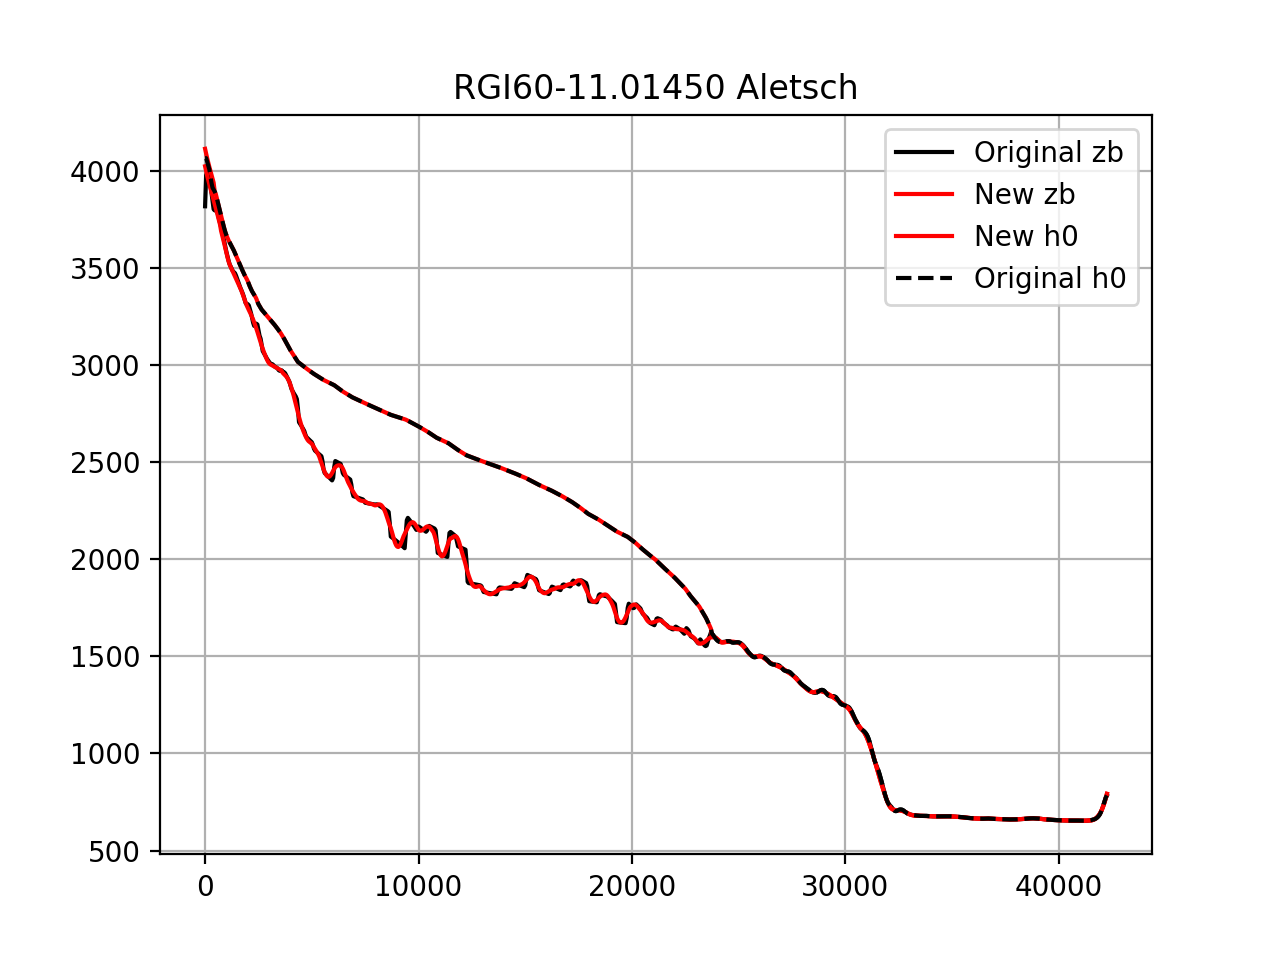
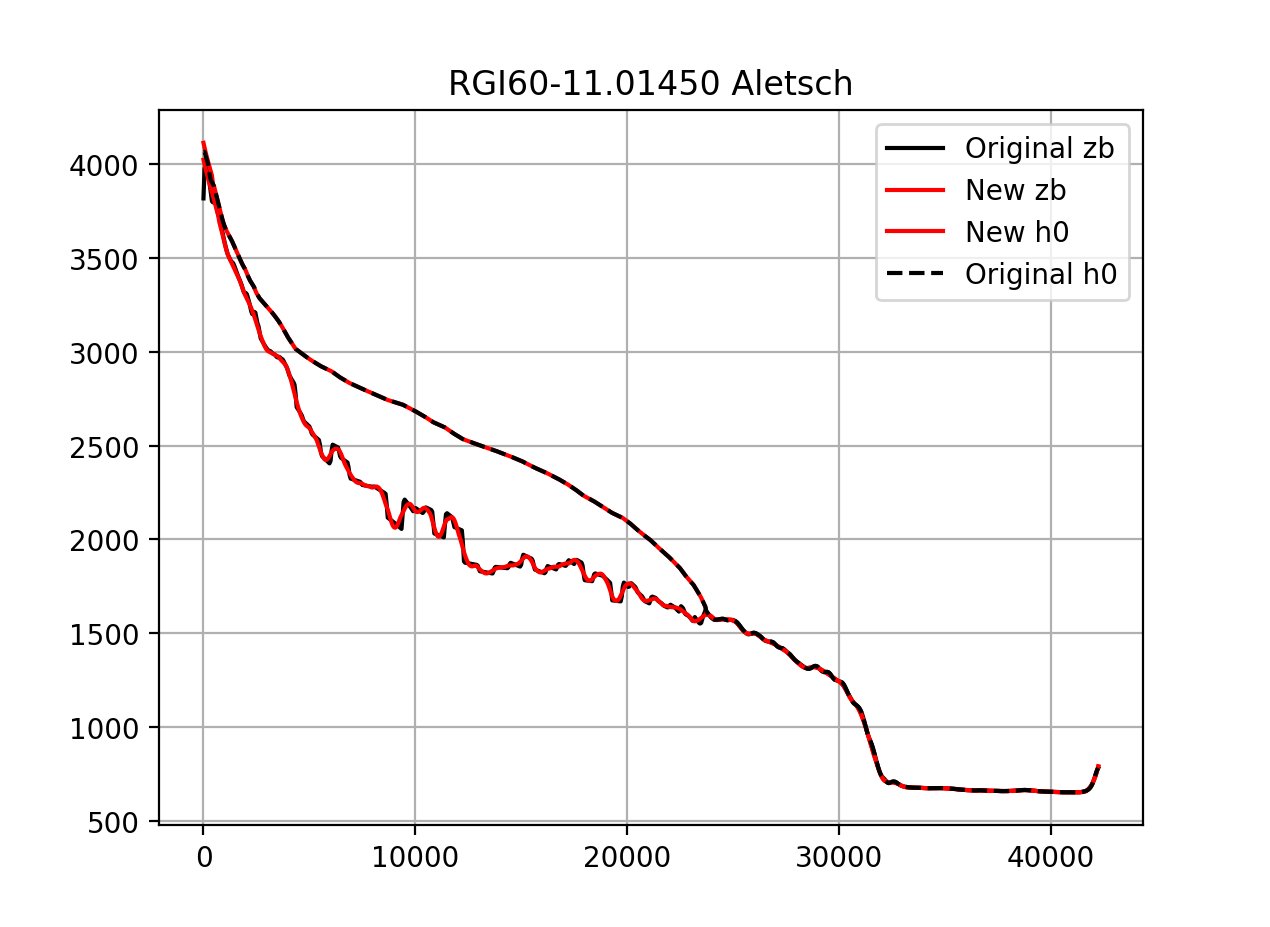
Updated scripts to pull geometry from OGGM

diff --git a/src/features/get_geom.py b/src/features/get_geom.py
@@ -8,7 +8,7 @@ Author: drotto
 Created: 9/28/2022 @ 8:53 AM
 Project: oggm
 """
-
+import shutil
 import os
 import pickle
 import gzip
@@ -71,6 +71,14 @@ oggm.cfg.PARAMS['use_multiprocessing'] = False
 oggm.cfg.PARAMS['check_calib_params'] = False
 oggm.cfg.PARAMS['use_rgi_area'] = True
 oggm.cfg.PARAMS['use_tstar_calibration'] = True
+oggm.cfg.PARAMS['flowline_dx'] = 1.0
+oggm.cfg.PARAMS['elevation_band_flowline_binsize'] = 30  # meters
+oggm.cfg.PARAMS['grid_dx_method'] = 'fixed'
+oggm.cfg.PARAMS['fixed_dx'] = 50
+oggm.cfg.PARAMS['border'] = 240
+oggm.cfg.PARAMS['use_multiple_flowlines'] = False
+oggm.cfg.PARAMS['downstream_line_shape'] = 'parabola'
+
 #oggm.cfg.PATHS['working_dir'] = utils.gettempdir(dirname='OGGM-ebands', reset=True)
 
 # %%
@@ -78,6 +86,8 @@ oggm.cfg.PARAMS['use_tstar_calibration'] = True
 rgi_ids = list({k: v for k, v in cfg['glaciers'].items()}.keys())
 
 # %%
+
+oggm.cfg.PATHS['working_dir'] = Path(r'~/oggm_out/e_bands')
 
 # Where to fetch the pre-processed directories
 # todo: just until 1.6 transition is officially documented then this should be changed 
@@ -87,25 +97,19 @@ base_url = 'https://cluster.klima.uni-bremen.de/data/gdirs/dems_v1/highres/'
 #                                           prepro_base_url=prepro_path,
 #                                           from_prepro_level=1,
 #                                           prepro_rgi_version='62')
-gdirs = workflow.init_glacier_directories(rgi_ids, from_prepro_level=2, prepro_border=240, prepro_base_url=prepro_path, reset=False, force=False)
+gdirs = workflow.init_glacier_directories(rgi_ids, from_prepro_level=2, prepro_border=160, prepro_base_url=prepro_path, reset=False, force=False)
 
-# %%
-
-oggm.cfg.PARAMS['elevation_band_flowline_binsize'] = 10  # meters
+# Shared tasks
 
 workflow.execute_entity_task(tasks.define_glacier_region, gdirs, source=['ALASKA', 'NASADEM'])#, 'ARCTICDEM', 'COPDEM30', 'TANDEM', 'ASTER'])
 workflow.execute_entity_task(tasks.process_dem, gdirs)
+
+# Get the flowline width using elevation band flowlines
 workflow.execute_entity_task(tasks.simple_glacier_masks, gdirs, write_hypsometry=True)
 workflow.execute_entity_task(tasks.elevation_band_flowline, gdirs)
 workflow.execute_entity_task(tasks.fixed_dx_elevation_band_flowline, gdirs)
 workflow.execute_entity_task(tasks.compute_downstream_line, gdirs)
 workflow.execute_entity_task(tasks.compute_downstream_bedshape, gdirs)
-#workflow.execute_entity_task(tasks.catchment_width_correction, gdirs)  # not sure if I should do this or not
-
-#%%
-
-
-
 # %% climate tasks
 
 base_url = r'https://cluster.klima.uni-bremen.de/~oggm/ref_mb_params/oggm_v1.4/RGIV62/CRU/elev_bands/qc3/pcp2.5/'
@@ -117,11 +121,10 @@ list_tasks = [
 ]
 for task in list_tasks:
     workflow.execute_entity_task(task, gdirs)
-
 # %% Inversion tasks
 
+workflow.execute_entity_task(tasks.prepare_for_inversion, gdirs, invert_all_rectangular=True)
 list_tasks = [
-    tasks.prepare_for_inversion,
     tasks.mass_conservation_inversion,
     tasks.filter_inversion_output,
     tasks.gridded_attributes,
@@ -130,67 +133,118 @@ list_tasks = [
 for task in list_tasks:
     workflow.execute_entity_task(task, gdirs)
 
-# %% init model
 
+# %% init model
 workflow.execute_entity_task(tasks.init_present_time_glacier, gdirs)
 
+
 # %%
-
-
 for i, rgiid in enumerate(rgi_ids):
     gdir = gdirs[i]
-    gdir_objs = ['model_flowlines', 'downstream_line']
+    gdir_objs = ['inversion_flowlines', 'inversion_output', 'downstream_line', 'elevation_band_flowline']
     objs = []
     for gdir_obj in gdir_objs:
         fp = gdir.get_filepath(gdir_obj)
-        with gzip.open(fp, "rb") as openfile:
-            while True:
-                try:
-                    obj = pickle.load(openfile)
-                    objs.append(obj)
-                except EOFError:
-                    break
-        # rewrite to other location
-        fp = Path(f'/mnt/c/sandbox/glacier-attribution/data/interim/oggm_flowlines/{rgiid}.{gdir_obj}.pickle')
-        with gzip.open(fp, "wb") as f:
-            # hopefully removes dependencie on oggm/salem
-            objs = flatten(objs)
-            #objs = [obj.__dict__ for obj in objs]
-            pickle.dump(objs, f)
-
-# %%
+        if gdir_obj == 'elevation_band_flowline':
+            shutil.copyfile(fp, Path(f'/mnt/c/sandbox/glacier-attribution/data/interim/oggm_flowlines/e_bands/{rgiid}.{gdir_obj}.csv'))
+        
+        else:
+            with gzip.open(fp, "rb") as openfile:
+                while True:
+                    try:
+                        obj = pickle.load(openfile)
+                        objs.append(obj)
+                    except EOFError:
+                        break
+            # rewrite to other location
+            fp = Path(f'/mnt/c/sandbox/glacier-attribution/data/interim/oggm_flowlines/e_bands/{rgiid}.{gdir_obj}.pickle') 
+            with gzip.open(fp, "wb") as f:
+                # hopefully removes dependencie on oggm/salem
+                objs = flatten(objs)
+                #objs = [obj.__dict__ for obj in objs]
+                pickle.dump(objs, f)
+        
 # 
-# fp = gdir.get_filepath('inversion_flowlines')
-# inv_flowlines = []
-# with gzip.open(fp, "rb") as openfile:
-#     while True:
-#         try:
-#             inv_flowlines.append(pickle.load(openfile))
-#         except EOFError:
-#             break
+# 
+# #%% Get the flowline length/bed profile using geometrical centerlines
+# 
+# oggm.cfg.PATHS['working_dir'] = Path(r'~/oggm_out/centerlines')
+# 
+# # Where to fetch the pre-processed directories
+# # todo: just until 1.6 transition is officially documented then this should be changed 
+# prepro_path = 'https://cluster.klima.uni-bremen.de/~oggm/gdirs/oggm_v1.6/L1-L2_files/elev_bands'
+# base_url = 'https://cluster.klima.uni-bremen.de/data/gdirs/dems_v1/highres/'
+# # gdirs = workflow.init_glacier_directories(rgi_ids, reset=False,
+# #                                           prepro_base_url=prepro_path,
+# #                                           from_prepro_level=1,
+# #                                           prepro_rgi_version='62')
+# gdirs = workflow.init_glacier_directories(rgi_ids, from_prepro_level=2, prepro_border=160, prepro_base_url=prepro_path, reset=False, force=False)
+# 
+# # Shared tasks
+# oggm.cfg.PARAMS['elevation_band_flowline_binsize'] = 10  # meters
+# workflow.execute_entity_task(tasks.define_glacier_region, gdirs, source=['ALASKA', 'NASADEM'])#, 'ARCTICDEM', 'COPDEM30', 'TANDEM', 'ASTER'])
+# workflow.execute_entity_task(tasks.process_dem, gdirs)
+# 
+# workflow.execute_entity_task(tasks.glacier_masks, gdirs)
+# workflow.execute_entity_task(tasks.compute_centerlines, gdirs)
+# workflow.execute_entity_task(tasks.initialize_flowlines, gdirs)
+# workflow.execute_entity_task(tasks.compute_downstream_line, gdirs)
+# 
+# list_talks = [
+#          tasks.catchment_area,
+#          tasks.catchment_width_geom,
+#          tasks.catchment_width_correction,
+#          tasks.compute_downstream_bedshape
+#          ]
+# for task in list_talks:
+#     # The order matters!
+#     workflow.execute_entity_task(task, gdirs)
+# 
+# base_url = r'https://cluster.klima.uni-bremen.de/~oggm/ref_mb_params/oggm_v1.4/RGIV62/CRU/elev_bands/qc3/pcp2.5/'
+# workflow.download_ref_tstars(base_url=base_url)
+# list_tasks = [
+#     tasks.process_climate_data,
+#     tasks.local_t_star,
+#     tasks.mu_star_calibration
+# ]
+# for task in list_tasks:
+#     workflow.execute_entity_task(task, gdirs)
+# 
+# 
+# workflow.execute_entity_task(tasks.prepare_for_inversion, gdirs, invert_all_rectangular=True)
+# list_tasks = [
+#     tasks.mass_conservation_inversion,
+#     tasks.filter_inversion_output,
+#     tasks.gridded_attributes,
+#     # tasks.gridded_mb_attributes  # only works with centerlines
+# ]
+# for task in list_tasks:
+#     workflow.execute_entity_task(task, gdirs)
+# 
+# # %% init model
+# 
+# workflow.execute_entity_task(tasks.init_present_time_glacier, gdirs)
 # 
 # # %%
 # 
-# fp = gdir.get_filepath('downstream_line')
-# downstream_line = []
-# with gzip.open(fp, "rb") as openfile:
-#     while True:
-#         try:
-#             downstream_line.append(pickle.load(openfile))
-#         except EOFError:
-#             break
 # 
-# # %%
-# 
-# fp = gdir.get_filepath('inversion_output')
-# inv_output = []
-# with gzip.open(fp, "rb") as openfile:
-#     while True:
-#         try:
-#             inv_output.append(pickle.load(openfile))
-#         except EOFError:
-#             break
-
-
-#%%
-
+# for i, rgiid in enumerate(rgi_ids):
+#     gdir = gdirs[i]
+#     gdir_objs = ['model_flowlines', 'downstream_line']
+#     objs = []
+#     for gdir_obj in gdir_objs:
+#         fp = gdir.get_filepath(gdir_obj)
+#         with gzip.open(fp, "rb") as openfile:
+#             while True:
+#                 try:
+#                     obj = pickle.load(openfile)
+#                     objs.append(obj)
+#                 except EOFError:
+#                     break
+#         # rewrite to other location
+#         fp = Path(f'/mnt/c/sandbox/glacier-attribution/data/interim/oggm_flowlines/geometrical_centerlines/{rgiid}.{gdir_obj}.pickle')
+#         with gzip.open(fp, "wb") as f:
+#             # hopefully removes dependencie on oggm/salem
+#             objs = flatten(objs)
+#             #objs = [obj.__dict__ for obj in objs]
+#             pickle.dump(objs, f)

diff --git a/src/flowline.py b/src/flowline.py
@@ -71,8 +71,6 @@ class get_flowline_geom:
         p = Path(ROOT, rf'data\interim\oggm_flowlines\flowline_geom_{rgiid}_raw.csv')
         df = pd.DataFrame(dict(x=x, zb=zb, w=w, h0=h0))
         df.to_csv(p, index=False)
-
-        df = pd.DataFrame(dict(x=x, zb=zb, w=w, h0=h0))
         if rgiid == "RGI60-11.00897":  # Hintereisferner
             df['zb'].iloc[133:145] = np.nan
             df['zb'] = df['zb'].interpolate(method='spline', order=3)
@@ -93,7 +91,7 @@ class get_flowline_geom:
             
             df['h0'] = df['h0'] - (df['zb'] - zb[0:len(df['zb'])])
         elif rgiid == "RGI60-01.09162":  # wolverine
-            df = df.iloc[:250]
+            df = df.iloc[:300]
             df['zb'].iloc[0:10] = np.linspace(1505, 1496, 10)
             
             df['zb'].iloc[143:159] = np.nan
@@ -164,9 +162,10 @@ class get_flowline_geom:
         ax.grid()
         ax.legend()
         ax.set_title(f'{rgiid} {name}')
-        fig.show()
         p = Path(ROOT, rf'data\interim\oggm_flowlines\flowline_geom_QC_{rgiid}_{name.lower().replace(" ", "")}.png')
         plt.savefig(p)
+        fig.show()
+        
 
 
         fig, ax = plt.subplots(2, 1, sharex=True, dpi=200)
@@ -185,9 +184,10 @@ class get_flowline_geom:
             axis.grid()
             axis.legend()
         ax[0].set_title(f'{rgiid} {name}')
-        fig.show()
         p = Path(ROOT, rf'data\interim\oggm_flowlines\flowline_geom_{rgiid}_{name.lower().replace(" ", "")}.png')
         plt.savefig(p)
+        fig.show()
+        
             
         #%%
         

diff --git a/scripts/export_oggm_geom.py b/scripts/export_oggm_geom.py
@@ -1,0 +1,31 @@
+# -*- coding: utf-8 -*-
+"""
+export_oggm_geom.py
+
+Description.
+
+Author: drotto
+Created: 3/2/2023 @ 3:40 PM
+Project: glacier-attribution
+"""
+
+from pathlib import Path
+
+import pandas as pd
+import numpy as np
+import matplotlib.pyplot as plt
+
+from src.data import get_rgi
+from src.flowline import get_flowline_geom
+from config import cfg, ROOT
+
+#%%
+
+rgiids = {k: v['name'] for k, v in cfg['glaciers'].items()}
+rgi = get_rgi(list(rgiids.keys()), from_sqllite=True)
+
+#%%
+
+for rgiid, name in rgiids.items():
+    geom = get_flowline_geom(rgiid)
+    
